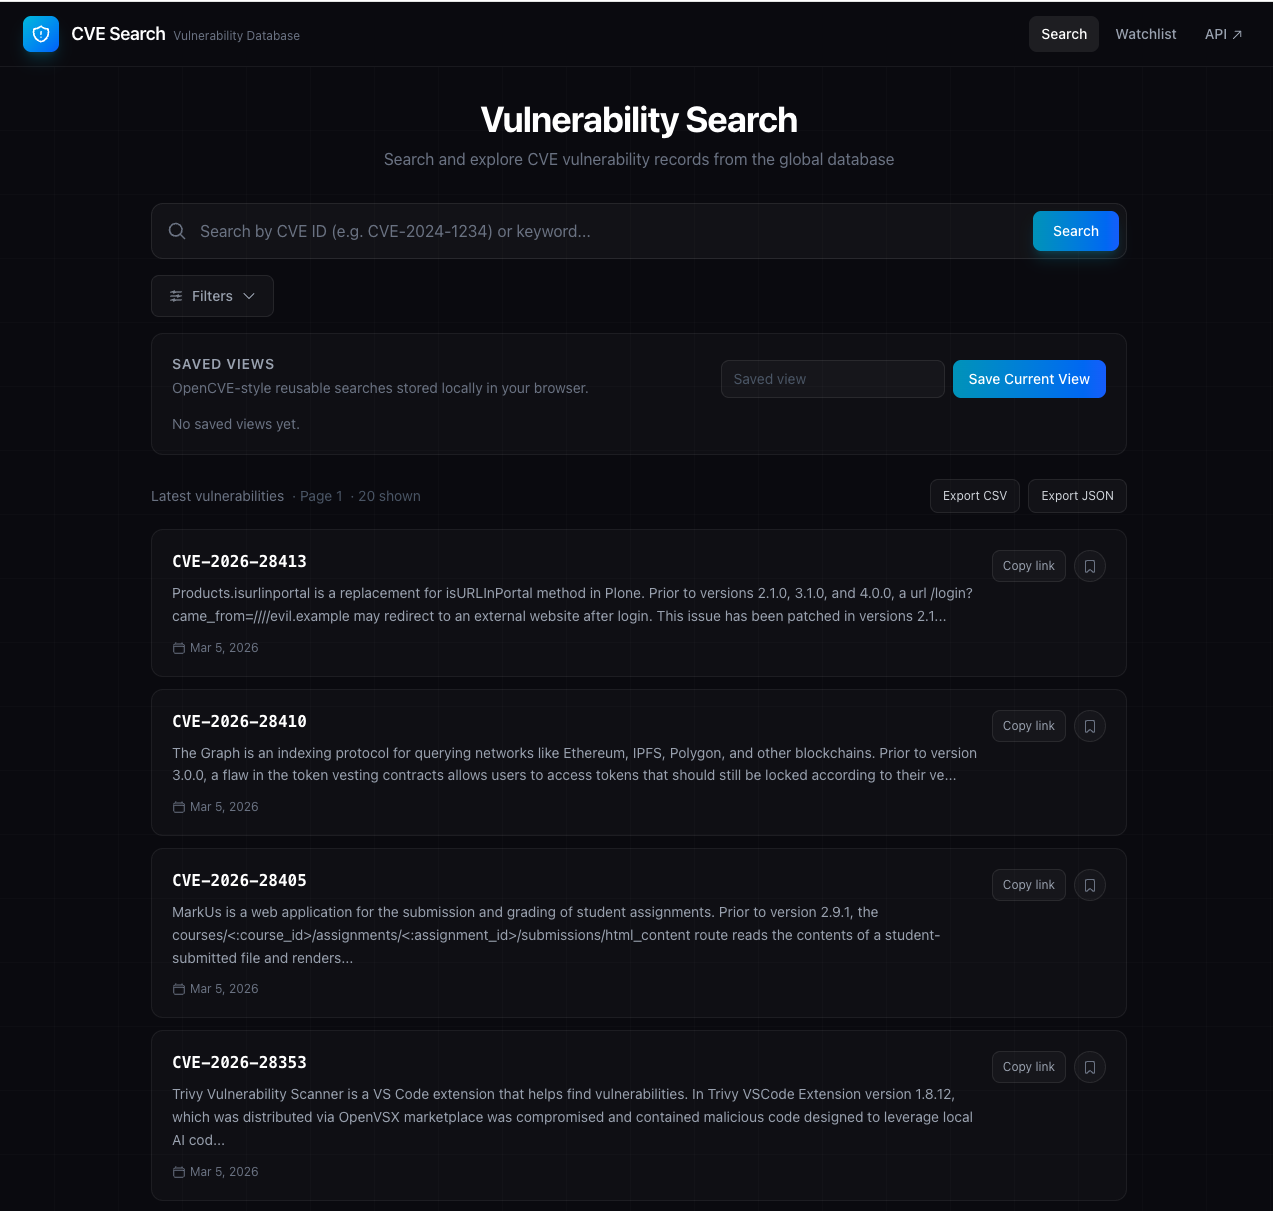
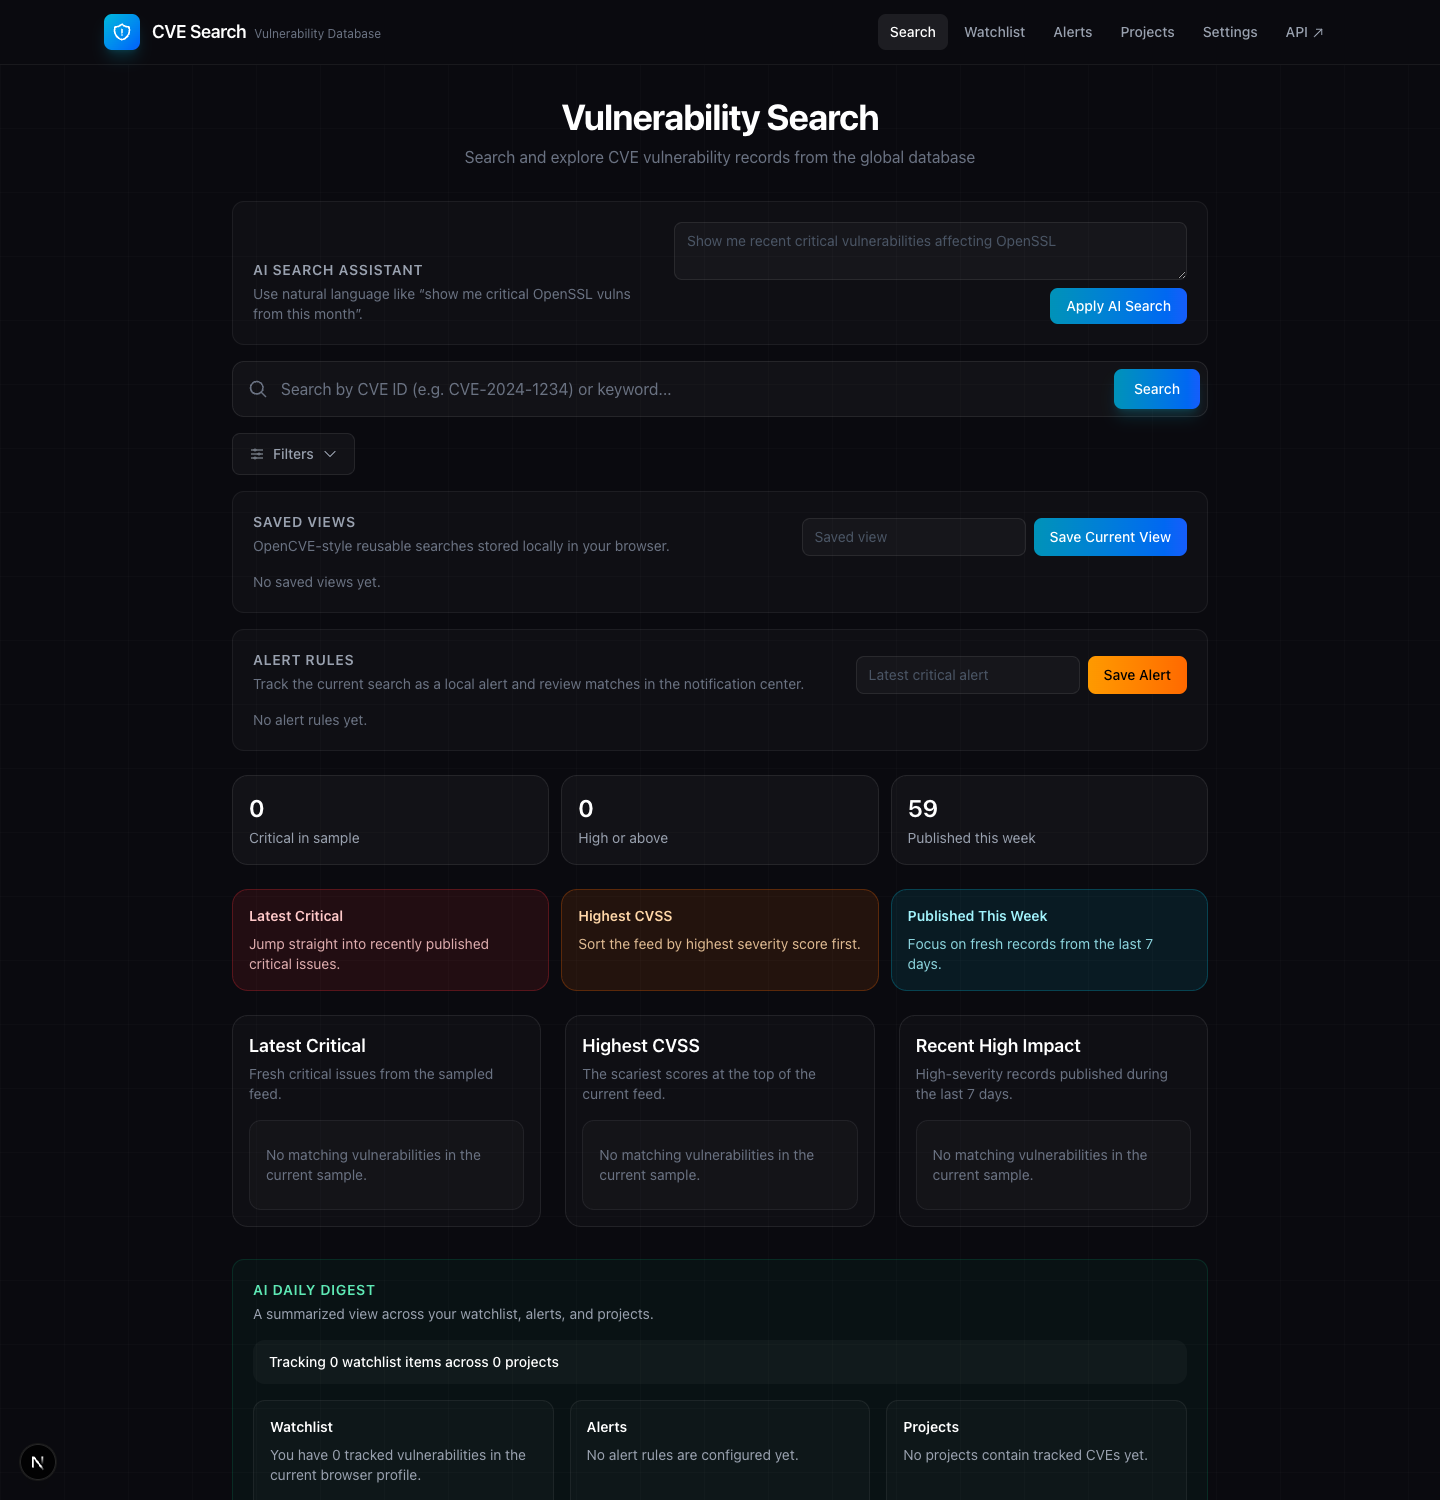
Refresh README screenshots

diff --git a/README.md b/README.md
@@ -18,11 +18,23 @@ It also includes an optional AI layer for natural-language search, analyst-facin
 
 ## Screenshots
 
-### Search Interface
-![CVE Search Interface](docs/images/screenshot-search.png)
+### Search Workspace
+
+URL-driven search, saved views, alert rules, analyst dashboard presets, and AI-assisted search in one screen.
+
+![CVE Search Workspace](docs/images/screenshot-search.png)
 
 ### CVE Detail View
+
+Structured vulnerability detail with AI insight, triage state, CVSS context, affected products, and linked references.
+
 ![CVE Detail View](docs/images/screenshot-detail.png)
+
+### AI Settings
+
+Browser-local AI provider settings for choosing the provider, model, and API key used by AI workflows.
+
+![AI Settings](docs/images/screenshot-settings.png)
 
 ## Highlights
 
